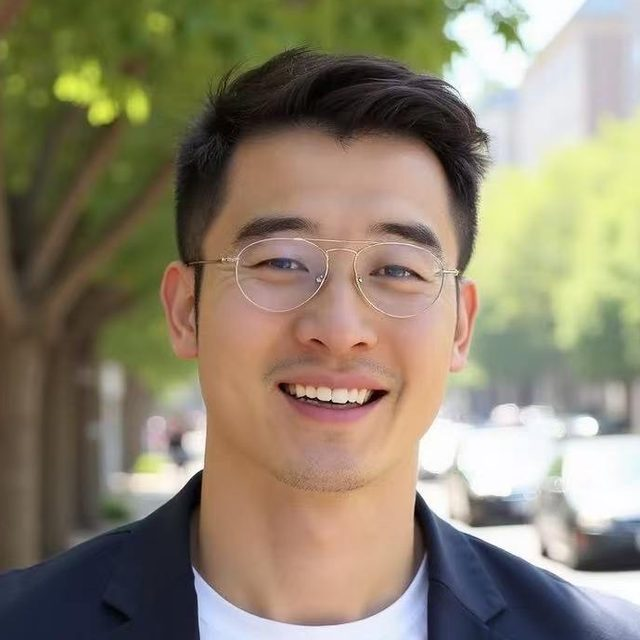
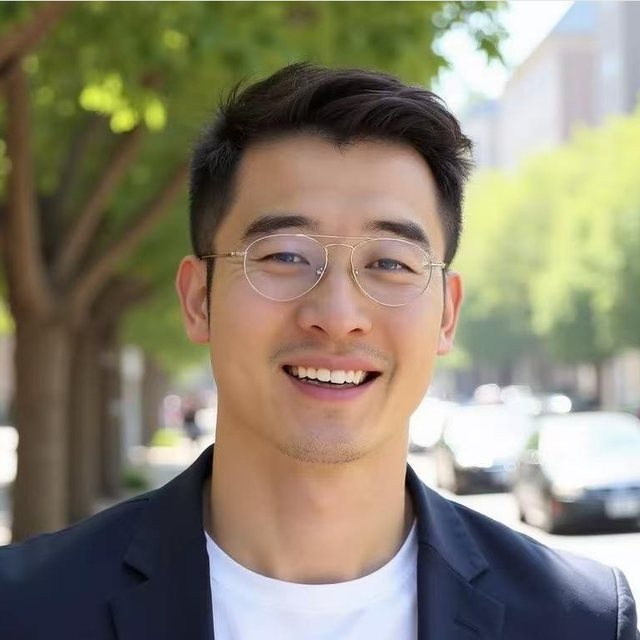
Show both founders in one row on phones and unclip Sophia
Sophia’s portrait keeps her full crown inside the circle, with the award graphic above her hair covered by the portrait’s own pink backdrop. On narrow screens the two partner cards stay side by side. The language control says CN when it switches to Chinese.

diff --git a/index.html b/index.html
@@ -205,13 +205,21 @@ footer .wrap { padding-block: clamp(56px, 7vw, 96px) 40px; }
   .grid { grid-template-columns: 1fr; gap: 0; }
   .grid > .kicker { padding-bottom: 0; }
   .grid > .body { padding-top: 24px; }
-  .people { grid-template-columns: 1fr; }
+  .people { grid-template-columns: repeat(2, minmax(0, 1fr)); gap: 14px 12px; max-width: none; }
+  .avatar { width: 72px; height: 72px; }
+  .person h3 { font-size: 14px; margin-top: 10px; line-height: 1.25; overflow-wrap: anywhere; }
+  .person .role { font-size: 12px; }
   /* Phone and WeChat webviews: 100vh is often taller than the visible area, so a
      sticky full-screen hero centers the title in empty space. Size the hero to its content. */
   .hero { position: relative; height: auto; min-height: 0; display: block; }
   .hero .wrap { padding-block: calc(112px + env(safe-area-inset-top, 0px)) 72px; }
   h1 { font-size: clamp(40px, 12vw, 64px); }
   html[data-lang="zh"] h1 { font-size: clamp(36px, 10vw, 56px); }
+}
+@media (max-width: 360px) {
+  .people { gap: 10px 8px; }
+  .avatar { width: 64px; height: 64px; }
+  .person h3 { font-size: 13px; }
 }
 @media (prefers-reduced-motion: reduce) {
   .kicker.lit svg { animation: none; }
@@ -232,7 +240,7 @@ footer .wrap { padding-block: clamp(56px, 7vw, 96px) 40px; }
       <a href="#focus"><span data-l="en">Focus</span><span data-l="zh">投资方向</span></a>
       <a href="#team"><span data-l="en">Team</span><span data-l="zh">管理团队</span></a>
       <a href="#contact"><span data-l="en">Contact</span><span data-l="zh">联系我们</span></a>
-      <button class="lang" id="lang-toggle" type="button"><span data-l="en">中文</span><span data-l="zh">EN</span></button>
+      <button class="lang" id="lang-toggle" type="button" aria-label="Switch to Chinese"><span data-l="en">CN</span><span data-l="zh">EN</span></button>
     </nav>
   </div>
 </header>
@@ -347,7 +355,12 @@ footer .wrap { padding-block: clamp(56px, 7vw, 96px) 40px; }
   // Language
   var stored = null;
   try { stored = localStorage.getItem('su-lang'); } catch (e) {}
-  function setLang(l) { root.setAttribute('data-lang', l); root.setAttribute('lang', l === 'zh' ? 'zh-Hans' : 'en'); }
+  function setLang(l) {
+    root.setAttribute('data-lang', l);
+    root.setAttribute('lang', l === 'zh' ? 'zh-Hans' : 'en');
+    var btn = document.getElementById('lang-toggle');
+    if (btn) btn.setAttribute('aria-label', l === 'zh' ? '切换到英文' : 'Switch to Chinese');
+  }
   setLang('en');
   var cf = document.getElementById('contact-form');
   if (cf) cf.addEventListener('submit', function (e) {

diff --git a/assets/team/PROVENANCE.md b/assets/team/PROVENANCE.md
@@ -35,6 +35,6 @@ File: `sophia-su.jpg`
 - Image: https://third.hrsay.com/base/file/download?fileId=421699421454147680&showFlag=false
 - Caption on that page: 众合云科CFO苏瑜女士荣登“2023中国人力资源服务业女企业家”榜单. The graphic is labelled 苏瑜, 众合云科集团 CFO.
 - The same article’s second picture, captioned 众合云科CFO苏瑜接受老虎ESOP“Top Talk”采访 (https://third.hrsay.com/base/file/download?fileId=421699334124527643&showFlag=false), shows the same person. That still was not used, because it is a wide interview frame with captions.
-- What was kept: a square crop of the head-and-shoulders photograph inside the 第一资源 award graphic, taken from below the purple banner so that graphic is outside the frame. The eyes sit on the same horizontal line as the other portrait, at a similar head size. The award title, “TOP 80”, the name plate, and the flower artwork were left out. The crop is not stretched.
+- What was kept: a square crop of the same photograph that keeps the whole crown, forehead, and chin inside the circle. Where the award graphic sat above the hair, that area is filled with the pink already in the portrait backdrop. The face itself is the original pixels and is not stretched or retouched. The award title, name plate, and flower artwork are not part of the portrait.
 - A line in the 51社保 article also calls her a former CFO of 百合佳缘. That role is not in the 值得买 filing or the HKEX biography. The portrait is still tied to 苏瑜 by the printed name and the Zhonghe CFO title that those filings do confirm.
 - Rights: the graphic was published by 众合云科 / 51社保 and 第一资源, via 美通社. The photographer is not named. No licence for reuse on this site was stated. This crop does not transfer copyright.
